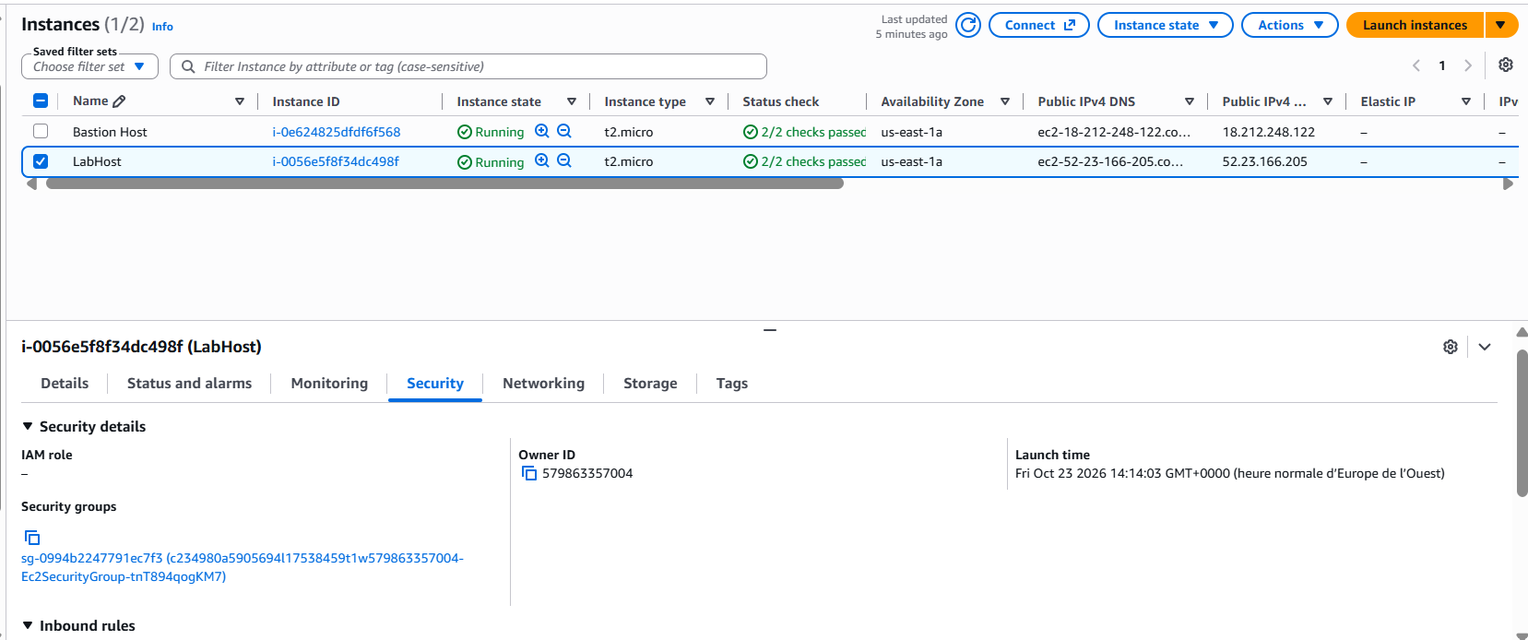
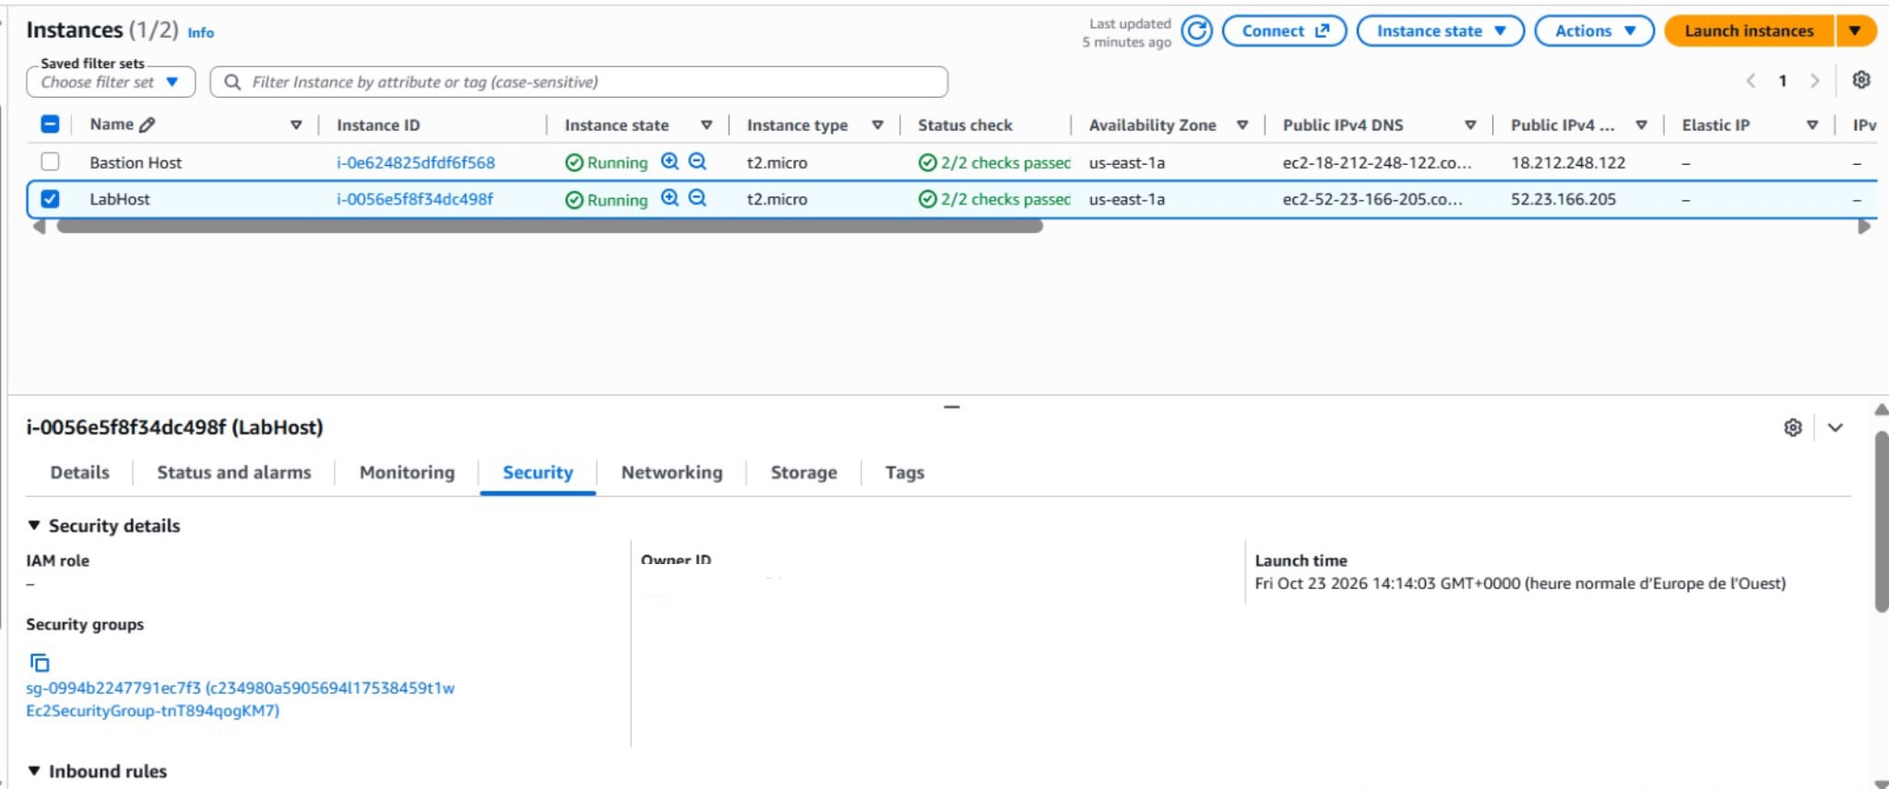
Link Wazuh, DC-4 and AWS lab write-ups to their GitHub repos
Published three write-ups as public repos (wazuh-siem-detection-lab,
vulnhub-dc4-pentest, aws-security-lab) and linked each from its portfolio
case study, FR and EN, home and projects pages.

Also fixes the AWS VPC/EC2 screenshots: the AWS account ID, which was
exposed in two spots (the Owner ID field and, a second time, inside the
auto-generated Security Group name), is now fully redacted in both the
portfolio and the new repo.

diff --git a/projets/index.html b/projets/index.html
@@ -322,7 +322,7 @@
                 </div>
               </div>
             </details>
-            <p class="no-repo">Projet académique — documentation interne, dépôt non public.</p>
+            <a class="btn btn-ghost" href="https://github.com/Ryad-Cyber/wazuh-siem-detection-lab" target="_blank" rel="noopener"><svg class="i" aria-hidden="true"><use href="#i-github"/></svg>Code — règles et scénarios de détection</a>
           </div>
         </div></article>
 
@@ -565,7 +565,7 @@
                 </div>
               </div>
             </details>
-            <p class="no-repo">Lab VulnHub isolé — documentation personnelle, dépôt non public.</p>
+            <a class="btn btn-ghost" href="https://github.com/Ryad-Cyber/vulnhub-dc4-pentest" target="_blank" rel="noopener"><svg class="i" aria-hidden="true"><use href="#i-github"/></svg>Rapport de pentest complet sur GitHub</a>
           </div>
         </div></article>
 
@@ -581,9 +581,9 @@
       <div class="detail-row"><h4>Réalisations techniques</h4><ol class="steps"><li><strong>Autorisations IAM.</strong> Analyse et configuration de <code>EC2-Admin-Policy</code> au format JSON : <code>ec2:Describe*</code>, <code>ec2:StartInstances</code> et <code>ec2:StopInstances</code>. Objectif : comprendre la granularité des permissions et le principe du moindre privilège.</li>
     <li><strong>Architecture VPC.</strong> Étude de <code>Lab VPC — 10.1.0.0/16</code>, de <code>Public Subnet 1 — 10.1.11.0/24</code> et de la table de routage publique (Public Route Table, affichée « Public » sur la capture). Objectif : comprendre la segmentation, le routage et la connectivité.</li>
     <li><strong>EC2 et Security Groups.</strong> Manipulation de <code>LabHost</code> et <code>Bastion Host</code> ; observation et configuration des règles réseau entrantes, dont SSH sur <code>TCP/22</code>. Objectif : comprendre l’administration des instances et le filtrage réseau.</li></ol></div>
-      <div class="detail-row"><h4>Captures commentées</h4><p>Cliquez sur une capture pour l’agrandir et parcourir la galerie.</p><figure class="detail-fig"><a href="../assets/projets/aws-iam-policy-json.png" target="_blank" rel="noopener" aria-label="Ouvrir la capture 01 / IAM"><img src="../assets/projets/aws-iam-policy-json.png" width="1881" height="701" loading="lazy" alt="Politique EC2-Admin-Policy : permissions EC2 en JSON."></a><figcaption><strong>01 / IAM — Politique EC2-Admin-Policy : permissions EC2 en JSON.</strong> Les actions Describe, StartInstances et StopInstances sont visibles. La ressource « * » reste large : c’est le point à restreindre pour appliquer pleinement le moindre privilège.</figcaption></figure><figure class="detail-fig"><a href="../assets/projets/aws-vpc-architecture-routes.jpeg" target="_blank" rel="noopener" aria-label="Ouvrir la capture 02 / VPC"><img src="../assets/projets/aws-vpc-architecture-routes.jpeg" width="2048" height="876" loading="lazy" alt="Lab VPC : réseau, sous-réseau et routage."></a><figcaption><strong>02 / VPC — Lab VPC : réseau, sous-réseau et routage.</strong> La carte montre 10.1.0.0/16, Public Subnet 1 en 10.1.11.0/24 et son association à la table « Public ».</figcaption></figure><figure class="detail-fig"><a href="../assets/projets/aws-ec2-security-groups.png" target="_blank" rel="noopener" aria-label="Ouvrir la capture 03 / EC2"><img src="../assets/projets/aws-ec2-security-groups.png" width="1657" height="694" loading="lazy" alt="LabHost et Bastion Host : instances et groupe de sécurité."></a><figcaption><strong>03 / EC2 — LabHost et Bastion Host : instances et groupe de sécurité.</strong> Les deux instances et le groupe de sécurité associé à LabHost sont visibles.</figcaption></figure></div>
+      <div class="detail-row"><h4>Captures commentées</h4><p>Cliquez sur une capture pour l’agrandir et parcourir la galerie.</p><figure class="detail-fig"><a href="../assets/projets/aws-iam-policy-json.png" target="_blank" rel="noopener" aria-label="Ouvrir la capture 01 / IAM"><img src="../assets/projets/aws-iam-policy-json.png" width="1881" height="701" loading="lazy" alt="Politique EC2-Admin-Policy : permissions EC2 en JSON."></a><figcaption><strong>01 / IAM — Politique EC2-Admin-Policy : permissions EC2 en JSON.</strong> Les actions Describe, StartInstances et StopInstances sont visibles. La ressource « * » reste large : c’est le point à restreindre pour appliquer pleinement le moindre privilège.</figcaption></figure><figure class="detail-fig"><a href="../assets/projets/aws-vpc-architecture-routes.jpeg?v=20261028-redacted" target="_blank" rel="noopener" aria-label="Ouvrir la capture 02 / VPC"><img src="../assets/projets/aws-vpc-architecture-routes.jpeg?v=20261028-redacted" width="2048" height="876" loading="lazy" alt="Lab VPC : réseau, sous-réseau et routage."></a><figcaption><strong>02 / VPC — Lab VPC : réseau, sous-réseau et routage.</strong> La carte montre 10.1.0.0/16, Public Subnet 1 en 10.1.11.0/24 et son association à la table « Public ».</figcaption></figure><figure class="detail-fig"><a href="../assets/projets/aws-ec2-security-groups.png?v=20261028-redacted" target="_blank" rel="noopener" aria-label="Ouvrir la capture 03 / EC2"><img src="../assets/projets/aws-ec2-security-groups.png?v=20261028-redacted" width="1657" height="694" loading="lazy" alt="LabHost et Bastion Host : instances et groupe de sécurité."></a><figcaption><strong>03 / EC2 — LabHost et Bastion Host : instances et groupe de sécurité.</strong> Les deux instances et le groupe de sécurité associé à LabHost sont visibles.</figcaption></figure></div>
       <div class="detail-row"><h4>Ce que ce laboratoire m’a appris</h4><p>Relier les permissions IAM, l’organisation du réseau et les règles des Security Groups. Distinguer une configuration d’apprentissage d’une configuration réellement durcie ; notamment, des actions IAM limitées ne suffisent pas si le périmètre des ressources reste large.</p></div></div></details>
-      <p class="no-repo">Laboratoire de formation · 3 captures documentées</p></div></div></article>
+      <p class="no-repo">Laboratoire de formation</p><a class="btn btn-ghost" href="https://github.com/Ryad-Cyber/aws-security-lab" target="_blank" rel="noopener"><svg class="i" aria-hidden="true"><use href="#i-github"/></svg>Documentation complète sur GitHub</a></div></div></article>
 
 <article class="card panel" data-cat="redteam" aria-labelledby="p-juice-shop">
           <figure class="card-media card-media--screenshot">

diff --git a/index.html b/index.html
@@ -372,7 +372,7 @@
                 </div>
               </div>
             </details>
-            <p class="no-repo">Projet académique — documentation interne, dépôt non public.</p>
+            <a class="btn btn-ghost" href="https://github.com/Ryad-Cyber/wazuh-siem-detection-lab" target="_blank" rel="noopener"><svg class="i" aria-hidden="true"><use href="#i-github"/></svg>Code — règles et scénarios de détection</a>
           </div>
         </div></article>
 
@@ -615,7 +615,7 @@
                 </div>
               </div>
             </details>
-            <p class="no-repo">Lab VulnHub isolé — documentation personnelle, dépôt non public.</p>
+            <a class="btn btn-ghost" href="https://github.com/Ryad-Cyber/vulnhub-dc4-pentest" target="_blank" rel="noopener"><svg class="i" aria-hidden="true"><use href="#i-github"/></svg>Rapport de pentest complet sur GitHub</a>
           </div>
         </div></article>
 
@@ -631,9 +631,9 @@
       <div class="detail-row"><h4>Réalisations techniques</h4><ol class="steps"><li><strong>Autorisations IAM.</strong> Analyse et configuration de <code>EC2-Admin-Policy</code> au format JSON : <code>ec2:Describe*</code>, <code>ec2:StartInstances</code> et <code>ec2:StopInstances</code>. Objectif : comprendre la granularité des permissions et le principe du moindre privilège.</li>
     <li><strong>Architecture VPC.</strong> Étude de <code>Lab VPC — 10.1.0.0/16</code>, de <code>Public Subnet 1 — 10.1.11.0/24</code> et de la table de routage publique (Public Route Table, affichée « Public » sur la capture). Objectif : comprendre la segmentation, le routage et la connectivité.</li>
     <li><strong>EC2 et Security Groups.</strong> Manipulation de <code>LabHost</code> et <code>Bastion Host</code> ; observation et configuration des règles réseau entrantes, dont SSH sur <code>TCP/22</code>. Objectif : comprendre l’administration des instances et le filtrage réseau.</li></ol></div>
-      <div class="detail-row"><h4>Captures commentées</h4><p>Cliquez sur une capture pour l’agrandir et parcourir la galerie.</p><figure class="detail-fig"><a href="assets/projets/aws-iam-policy-json.png" target="_blank" rel="noopener" aria-label="Ouvrir la capture 01 / IAM"><img src="assets/projets/aws-iam-policy-json.png" width="1881" height="701" loading="lazy" alt="Politique EC2-Admin-Policy : permissions EC2 en JSON."></a><figcaption><strong>01 / IAM — Politique EC2-Admin-Policy : permissions EC2 en JSON.</strong> Les actions Describe, StartInstances et StopInstances sont visibles. La ressource « * » reste large : c’est le point à restreindre pour appliquer pleinement le moindre privilège.</figcaption></figure><figure class="detail-fig"><a href="assets/projets/aws-vpc-architecture-routes.jpeg" target="_blank" rel="noopener" aria-label="Ouvrir la capture 02 / VPC"><img src="assets/projets/aws-vpc-architecture-routes.jpeg" width="2048" height="876" loading="lazy" alt="Lab VPC : réseau, sous-réseau et routage."></a><figcaption><strong>02 / VPC — Lab VPC : réseau, sous-réseau et routage.</strong> La carte montre 10.1.0.0/16, Public Subnet 1 en 10.1.11.0/24 et son association à la table « Public ».</figcaption></figure><figure class="detail-fig"><a href="assets/projets/aws-ec2-security-groups.png" target="_blank" rel="noopener" aria-label="Ouvrir la capture 03 / EC2"><img src="assets/projets/aws-ec2-security-groups.png" width="1657" height="694" loading="lazy" alt="LabHost et Bastion Host : instances et groupe de sécurité."></a><figcaption><strong>03 / EC2 — LabHost et Bastion Host : instances et groupe de sécurité.</strong> Les deux instances et le groupe de sécurité associé à LabHost sont visibles.</figcaption></figure></div>
+      <div class="detail-row"><h4>Captures commentées</h4><p>Cliquez sur une capture pour l’agrandir et parcourir la galerie.</p><figure class="detail-fig"><a href="assets/projets/aws-iam-policy-json.png" target="_blank" rel="noopener" aria-label="Ouvrir la capture 01 / IAM"><img src="assets/projets/aws-iam-policy-json.png" width="1881" height="701" loading="lazy" alt="Politique EC2-Admin-Policy : permissions EC2 en JSON."></a><figcaption><strong>01 / IAM — Politique EC2-Admin-Policy : permissions EC2 en JSON.</strong> Les actions Describe, StartInstances et StopInstances sont visibles. La ressource « * » reste large : c’est le point à restreindre pour appliquer pleinement le moindre privilège.</figcaption></figure><figure class="detail-fig"><a href="assets/projets/aws-vpc-architecture-routes.jpeg?v=20261028-redacted" target="_blank" rel="noopener" aria-label="Ouvrir la capture 02 / VPC"><img src="assets/projets/aws-vpc-architecture-routes.jpeg?v=20261028-redacted" width="2048" height="876" loading="lazy" alt="Lab VPC : réseau, sous-réseau et routage."></a><figcaption><strong>02 / VPC — Lab VPC : réseau, sous-réseau et routage.</strong> La carte montre 10.1.0.0/16, Public Subnet 1 en 10.1.11.0/24 et son association à la table « Public ».</figcaption></figure><figure class="detail-fig"><a href="assets/projets/aws-ec2-security-groups.png?v=20261028-redacted" target="_blank" rel="noopener" aria-label="Ouvrir la capture 03 / EC2"><img src="assets/projets/aws-ec2-security-groups.png?v=20261028-redacted" width="1657" height="694" loading="lazy" alt="LabHost et Bastion Host : instances et groupe de sécurité."></a><figcaption><strong>03 / EC2 — LabHost et Bastion Host : instances et groupe de sécurité.</strong> Les deux instances et le groupe de sécurité associé à LabHost sont visibles.</figcaption></figure></div>
       <div class="detail-row"><h4>Ce que ce laboratoire m’a appris</h4><p>Relier les permissions IAM, l’organisation du réseau et les règles des Security Groups. Distinguer une configuration d’apprentissage d’une configuration réellement durcie ; notamment, des actions IAM limitées ne suffisent pas si le périmètre des ressources reste large.</p></div></div></details>
-      <p class="no-repo">Laboratoire de formation · 3 captures documentées</p></div></div></article>
+      <p class="no-repo">Laboratoire de formation</p><a class="btn btn-ghost" href="https://github.com/Ryad-Cyber/aws-security-lab" target="_blank" rel="noopener"><svg class="i" aria-hidden="true"><use href="#i-github"/></svg>Documentation complète sur GitHub</a></div></div></article>
 
 <article class="card panel" data-cat="redteam" aria-labelledby="p-juice-shop">
           <figure class="card-media card-media--screenshot">

diff --git a/en/projects/index.html b/en/projects/index.html
@@ -322,7 +322,7 @@
                 </div>
               </div>
             </details>
-            <p class="no-repo">Academic project — internal documentation, repository not public.</p>
+            <a class="btn btn-ghost" href="https://github.com/Ryad-Cyber/wazuh-siem-detection-lab" target="_blank" rel="noopener"><svg class="i" aria-hidden="true"><use href="#i-github"/></svg>Code — detection rules and scenarios</a>
           </div>
         </div></article>
 
@@ -565,7 +565,7 @@
                 </div>
               </div>
             </details>
-            <p class="no-repo">Isolated VulnHub lab — personal documentation, repository not public.</p>
+            <a class="btn btn-ghost" href="https://github.com/Ryad-Cyber/vulnhub-dc4-pentest" target="_blank" rel="noopener"><svg class="i" aria-hidden="true"><use href="#i-github"/></svg>Full pentest report on GitHub</a>
           </div>
         </div></article>
 
@@ -581,9 +581,9 @@
       <div class="detail-row"><h4>Technical work</h4><ol class="steps"><li><strong>IAM permissions.</strong> Analysis and configuration of the JSON <code>EC2-Admin-Policy</code>: <code>ec2:Describe*</code>, <code>ec2:StartInstances</code> and <code>ec2:StopInstances</code>. Goal: understand granular permissions and the principle of least privilege.</li>
     <li><strong>VPC architecture.</strong> Study of <code>Lab VPC — 10.1.0.0/16</code>, <code>Public Subnet 1 — 10.1.11.0/24</code> and the public route table (Public Route Table, displayed as “Public” in the screenshot). Goal: understand segmentation, routing and connectivity.</li>
     <li><strong>EC2 and Security Groups.</strong> Work with <code>LabHost</code> and <code>Bastion Host</code>; observation and configuration of inbound network rules, including SSH on <code>TCP/22</code>. Goal: understand instance administration and network filtering.</li></ol></div>
-      <div class="detail-row"><h4>Annotated screenshots</h4><p>Select a screenshot to enlarge it and browse the gallery.</p><figure class="detail-fig"><a href="../../assets/projets/aws-iam-policy-json.png" target="_blank" rel="noopener" aria-label="Open screenshot 01 / IAM"><img src="../../assets/projets/aws-iam-policy-json.png" width="1881" height="701" loading="lazy" alt="EC2-Admin-Policy: EC2 permissions in JSON."></a><figcaption><strong>01 / IAM — EC2-Admin-Policy: EC2 permissions in JSON.</strong> Describe, StartInstances and StopInstances actions are visible. The wildcard resource remains broad: that is the scope to narrow down to fully apply least privilege.</figcaption></figure><figure class="detail-fig"><a href="../../assets/projets/aws-vpc-architecture-routes.jpeg" target="_blank" rel="noopener" aria-label="Open screenshot 02 / VPC"><img src="../../assets/projets/aws-vpc-architecture-routes.jpeg" width="2048" height="876" loading="lazy" alt="Lab VPC: network, subnet and routing."></a><figcaption><strong>02 / VPC — Lab VPC: network, subnet and routing.</strong> The map shows 10.1.0.0/16, Public Subnet 1 at 10.1.11.0/24 and its association with the “Public” route table.</figcaption></figure><figure class="detail-fig"><a href="../../assets/projets/aws-ec2-security-groups.png" target="_blank" rel="noopener" aria-label="Open screenshot 03 / EC2"><img src="../../assets/projets/aws-ec2-security-groups.png" width="1657" height="694" loading="lazy" alt="LabHost and Bastion Host: instances and security group."></a><figcaption><strong>03 / EC2 — LabHost and Bastion Host: instances and security group.</strong> Both instances and the security group attached to LabHost are visible.</figcaption></figure></div>
+      <div class="detail-row"><h4>Annotated screenshots</h4><p>Select a screenshot to enlarge it and browse the gallery.</p><figure class="detail-fig"><a href="../../assets/projets/aws-iam-policy-json.png" target="_blank" rel="noopener" aria-label="Open screenshot 01 / IAM"><img src="../../assets/projets/aws-iam-policy-json.png" width="1881" height="701" loading="lazy" alt="EC2-Admin-Policy: EC2 permissions in JSON."></a><figcaption><strong>01 / IAM — EC2-Admin-Policy: EC2 permissions in JSON.</strong> Describe, StartInstances and StopInstances actions are visible. The wildcard resource remains broad: that is the scope to narrow down to fully apply least privilege.</figcaption></figure><figure class="detail-fig"><a href="../../assets/projets/aws-vpc-architecture-routes.jpeg?v=20261028-redacted" target="_blank" rel="noopener" aria-label="Open screenshot 02 / VPC"><img src="../../assets/projets/aws-vpc-architecture-routes.jpeg?v=20261028-redacted" width="2048" height="876" loading="lazy" alt="Lab VPC: network, subnet and routing."></a><figcaption><strong>02 / VPC — Lab VPC: network, subnet and routing.</strong> The map shows 10.1.0.0/16, Public Subnet 1 at 10.1.11.0/24 and its association with the “Public” route table.</figcaption></figure><figure class="detail-fig"><a href="../../assets/projets/aws-ec2-security-groups.png?v=20261028-redacted" target="_blank" rel="noopener" aria-label="Open screenshot 03 / EC2"><img src="../../assets/projets/aws-ec2-security-groups.png?v=20261028-redacted" width="1657" height="694" loading="lazy" alt="LabHost and Bastion Host: instances and security group."></a><figcaption><strong>03 / EC2 — LabHost and Bastion Host: instances and security group.</strong> Both instances and the security group attached to LabHost are visible.</figcaption></figure></div>
       <div class="detail-row"><h4>What I learned</h4><p>Connect IAM permissions, network organization and Security Group rules. Distinguish a learning configuration from a hardened configuration; in particular, a limited set of IAM actions is insufficient when the resource scope remains broad.</p></div></div></details>
-      <p class="no-repo">Training lab · 3 documented screenshots</p></div></div></article>
+      <p class="no-repo">Training lab</p><a class="btn btn-ghost" href="https://github.com/Ryad-Cyber/aws-security-lab" target="_blank" rel="noopener"><svg class="i" aria-hidden="true"><use href="#i-github"/></svg>Full write-up on GitHub</a></div></div></article>
 
 <article class="card panel" data-cat="redteam" aria-labelledby="p-juice-shop">
           <figure class="card-media card-media--screenshot">

diff --git a/en/index.html b/en/index.html
@@ -369,7 +369,7 @@
                 </div>
               </div>
             </details>
-            <p class="no-repo">Academic project — internal documentation, repository not public.</p>
+            <a class="btn btn-ghost" href="https://github.com/Ryad-Cyber/wazuh-siem-detection-lab" target="_blank" rel="noopener"><svg class="i" aria-hidden="true"><use href="#i-github"/></svg>Code — detection rules and scenarios</a>
           </div>
         </div></article>
 
@@ -612,7 +612,7 @@
                 </div>
               </div>
             </details>
-            <p class="no-repo">Isolated VulnHub lab — personal documentation, repository not public.</p>
+            <a class="btn btn-ghost" href="https://github.com/Ryad-Cyber/vulnhub-dc4-pentest" target="_blank" rel="noopener"><svg class="i" aria-hidden="true"><use href="#i-github"/></svg>Full pentest report on GitHub</a>
           </div>
         </div></article>
 
@@ -628,9 +628,9 @@
       <div class="detail-row"><h4>Technical work</h4><ol class="steps"><li><strong>IAM permissions.</strong> Analysis and configuration of the JSON <code>EC2-Admin-Policy</code>: <code>ec2:Describe*</code>, <code>ec2:StartInstances</code> and <code>ec2:StopInstances</code>. Goal: understand granular permissions and the principle of least privilege.</li>
     <li><strong>VPC architecture.</strong> Study of <code>Lab VPC — 10.1.0.0/16</code>, <code>Public Subnet 1 — 10.1.11.0/24</code> and the public route table (Public Route Table, displayed as “Public” in the screenshot). Goal: understand segmentation, routing and connectivity.</li>
     <li><strong>EC2 and Security Groups.</strong> Work with <code>LabHost</code> and <code>Bastion Host</code>; observation and configuration of inbound network rules, including SSH on <code>TCP/22</code>. Goal: understand instance administration and network filtering.</li></ol></div>
-      <div class="detail-row"><h4>Annotated screenshots</h4><p>Select a screenshot to enlarge it and browse the gallery.</p><figure class="detail-fig"><a href="../assets/projets/aws-iam-policy-json.png" target="_blank" rel="noopener" aria-label="Open screenshot 01 / IAM"><img src="../assets/projets/aws-iam-policy-json.png" width="1881" height="701" loading="lazy" alt="EC2-Admin-Policy: EC2 permissions in JSON."></a><figcaption><strong>01 / IAM — EC2-Admin-Policy: EC2 permissions in JSON.</strong> Describe, StartInstances and StopInstances actions are visible. The wildcard resource remains broad: that is the scope to narrow down to fully apply least privilege.</figcaption></figure><figure class="detail-fig"><a href="../assets/projets/aws-vpc-architecture-routes.jpeg" target="_blank" rel="noopener" aria-label="Open screenshot 02 / VPC"><img src="../assets/projets/aws-vpc-architecture-routes.jpeg" width="2048" height="876" loading="lazy" alt="Lab VPC: network, subnet and routing."></a><figcaption><strong>02 / VPC — Lab VPC: network, subnet and routing.</strong> The map shows 10.1.0.0/16, Public Subnet 1 at 10.1.11.0/24 and its association with the “Public” route table.</figcaption></figure><figure class="detail-fig"><a href="../assets/projets/aws-ec2-security-groups.png" target="_blank" rel="noopener" aria-label="Open screenshot 03 / EC2"><img src="../assets/projets/aws-ec2-security-groups.png" width="1657" height="694" loading="lazy" alt="LabHost and Bastion Host: instances and security group."></a><figcaption><strong>03 / EC2 — LabHost and Bastion Host: instances and security group.</strong> Both instances and the security group attached to LabHost are visible.</figcaption></figure></div>
+      <div class="detail-row"><h4>Annotated screenshots</h4><p>Select a screenshot to enlarge it and browse the gallery.</p><figure class="detail-fig"><a href="../assets/projets/aws-iam-policy-json.png" target="_blank" rel="noopener" aria-label="Open screenshot 01 / IAM"><img src="../assets/projets/aws-iam-policy-json.png" width="1881" height="701" loading="lazy" alt="EC2-Admin-Policy: EC2 permissions in JSON."></a><figcaption><strong>01 / IAM — EC2-Admin-Policy: EC2 permissions in JSON.</strong> Describe, StartInstances and StopInstances actions are visible. The wildcard resource remains broad: that is the scope to narrow down to fully apply least privilege.</figcaption></figure><figure class="detail-fig"><a href="../assets/projets/aws-vpc-architecture-routes.jpeg?v=20261028-redacted" target="_blank" rel="noopener" aria-label="Open screenshot 02 / VPC"><img src="../assets/projets/aws-vpc-architecture-routes.jpeg?v=20261028-redacted" width="2048" height="876" loading="lazy" alt="Lab VPC: network, subnet and routing."></a><figcaption><strong>02 / VPC — Lab VPC: network, subnet and routing.</strong> The map shows 10.1.0.0/16, Public Subnet 1 at 10.1.11.0/24 and its association with the “Public” route table.</figcaption></figure><figure class="detail-fig"><a href="../assets/projets/aws-ec2-security-groups.png?v=20261028-redacted" target="_blank" rel="noopener" aria-label="Open screenshot 03 / EC2"><img src="../assets/projets/aws-ec2-security-groups.png?v=20261028-redacted" width="1657" height="694" loading="lazy" alt="LabHost and Bastion Host: instances and security group."></a><figcaption><strong>03 / EC2 — LabHost and Bastion Host: instances and security group.</strong> Both instances and the security group attached to LabHost are visible.</figcaption></figure></div>
       <div class="detail-row"><h4>What I learned</h4><p>Connect IAM permissions, network organization and Security Group rules. Distinguish a learning configuration from a hardened configuration; in particular, a limited set of IAM actions is insufficient when the resource scope remains broad.</p></div></div></details>
-      <p class="no-repo">Training lab · 3 documented screenshots</p></div></div></article>
+      <p class="no-repo">Training lab</p><a class="btn btn-ghost" href="https://github.com/Ryad-Cyber/aws-security-lab" target="_blank" rel="noopener"><svg class="i" aria-hidden="true"><use href="#i-github"/></svg>Full write-up on GitHub</a></div></div></article>
 
 <article class="card panel" data-cat="redteam" aria-labelledby="p-juice-shop">
           <figure class="card-media card-media--screenshot">
